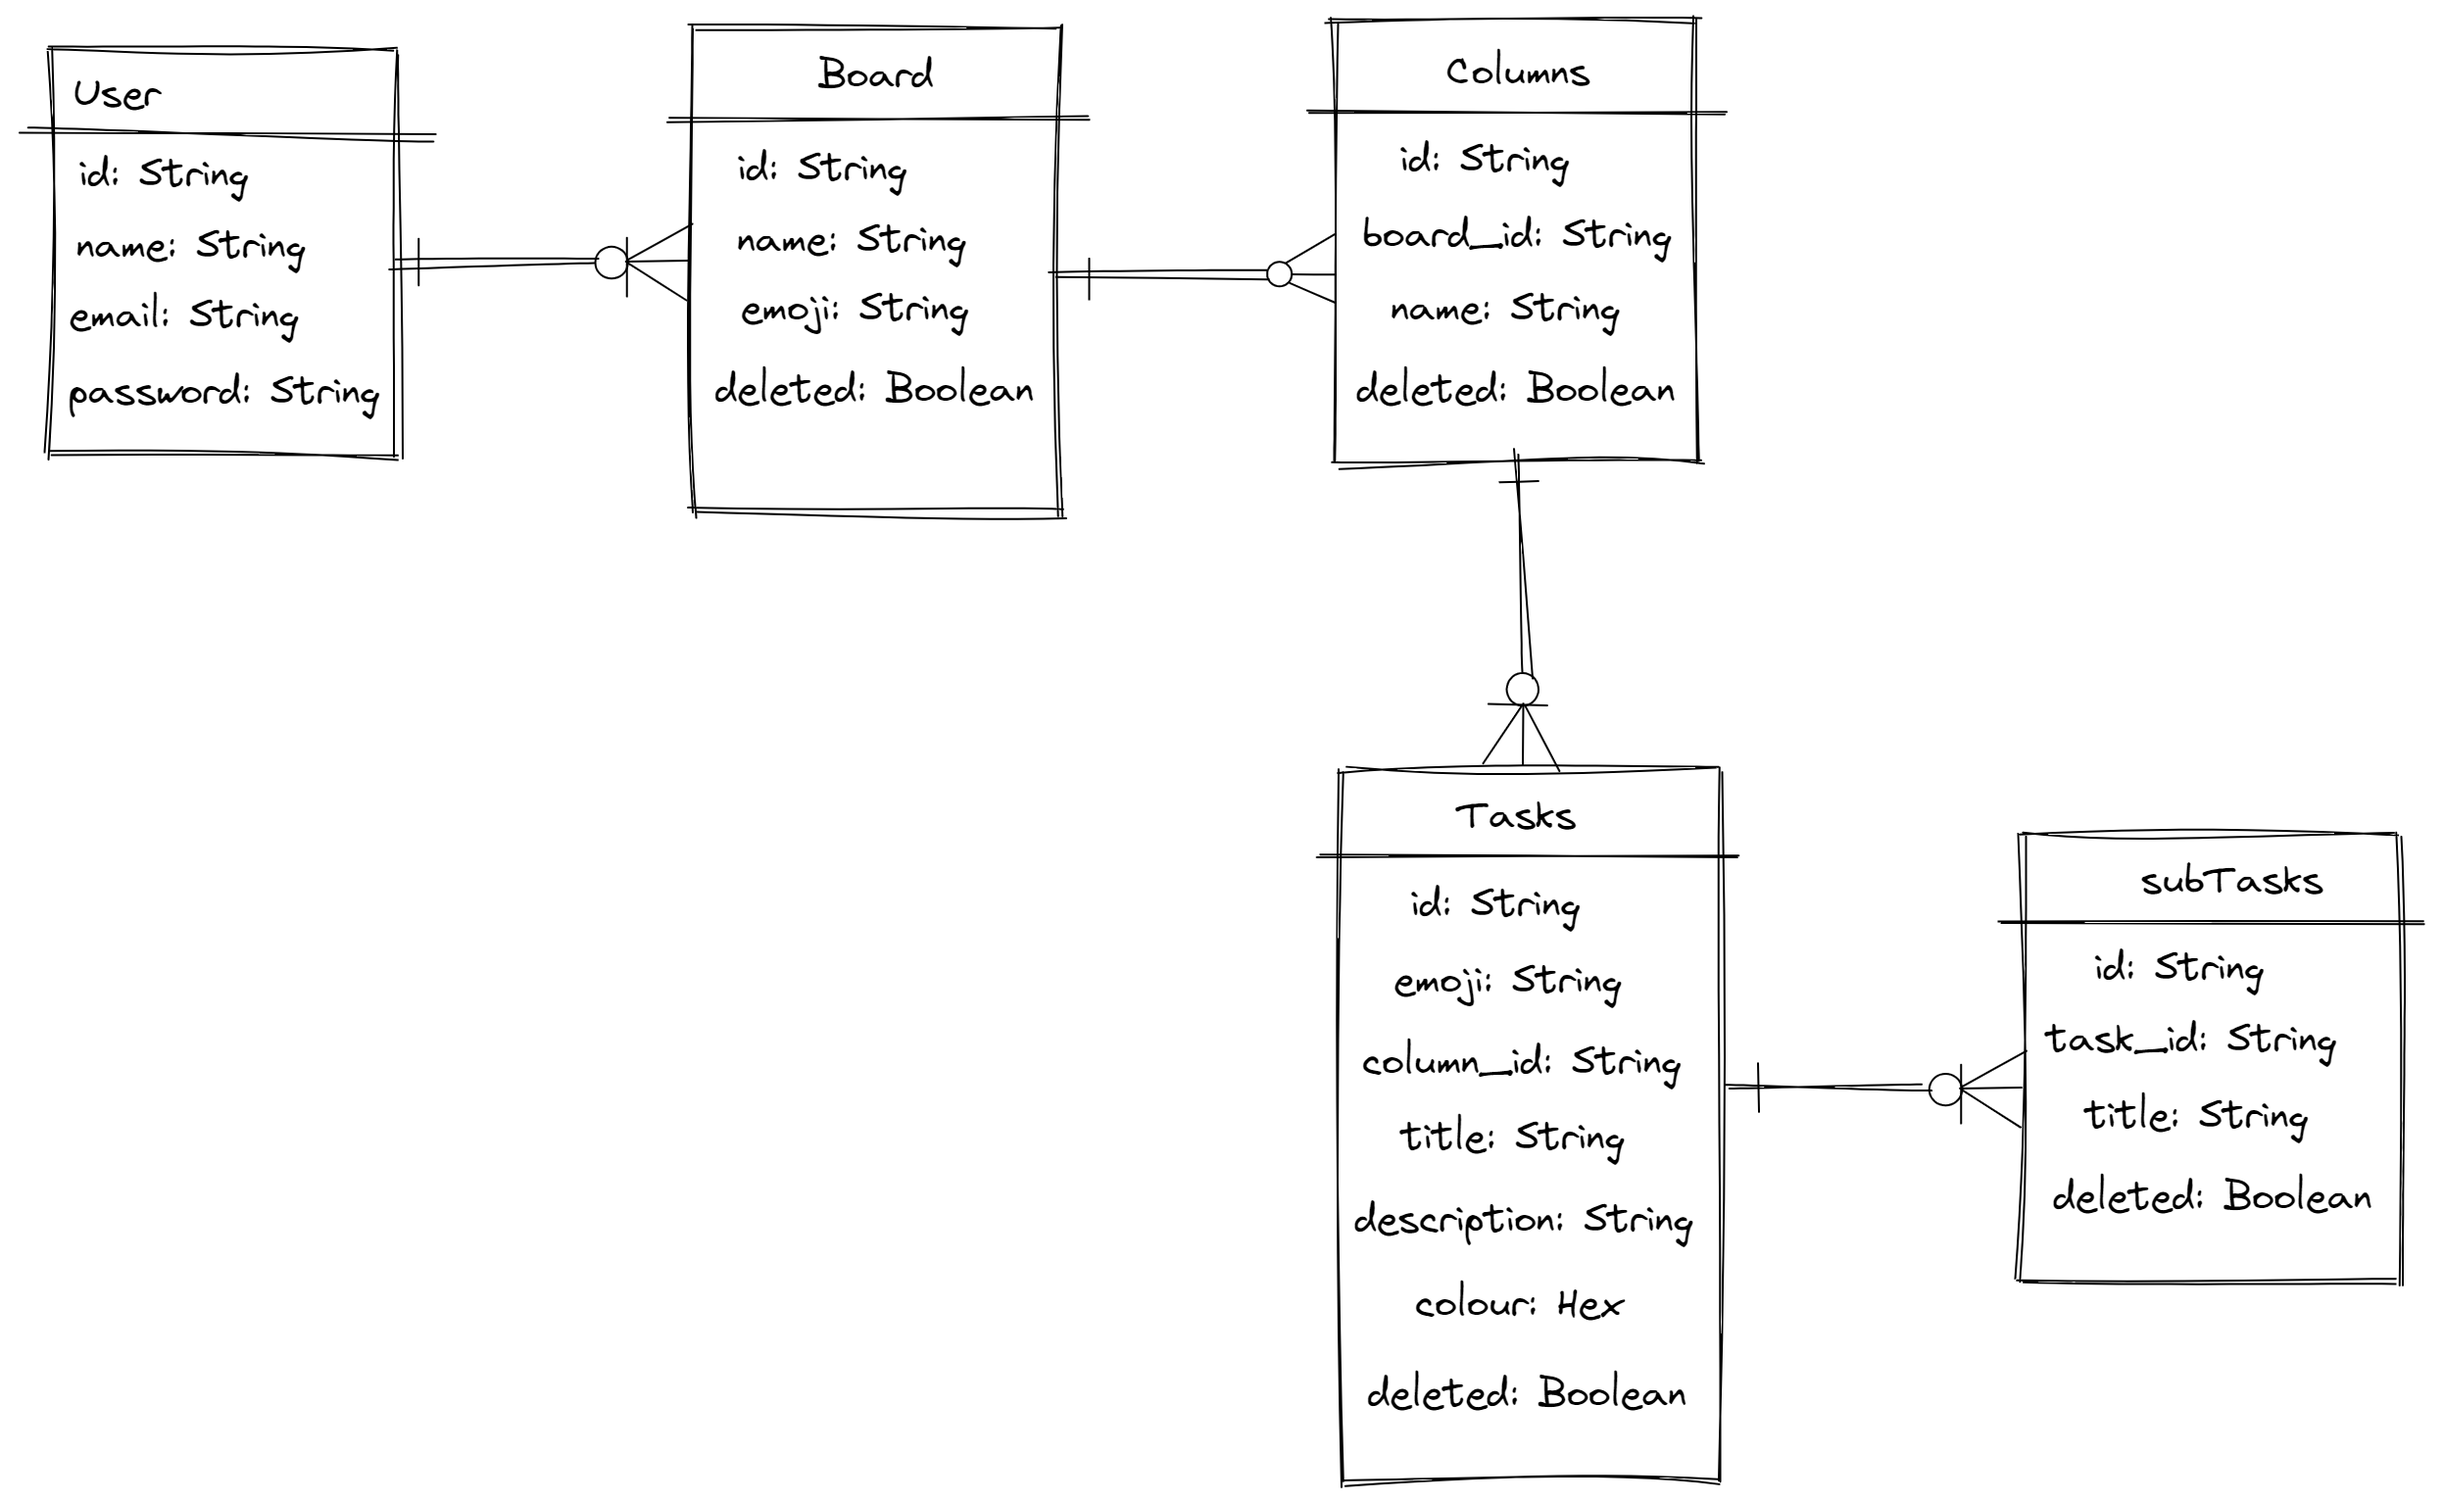
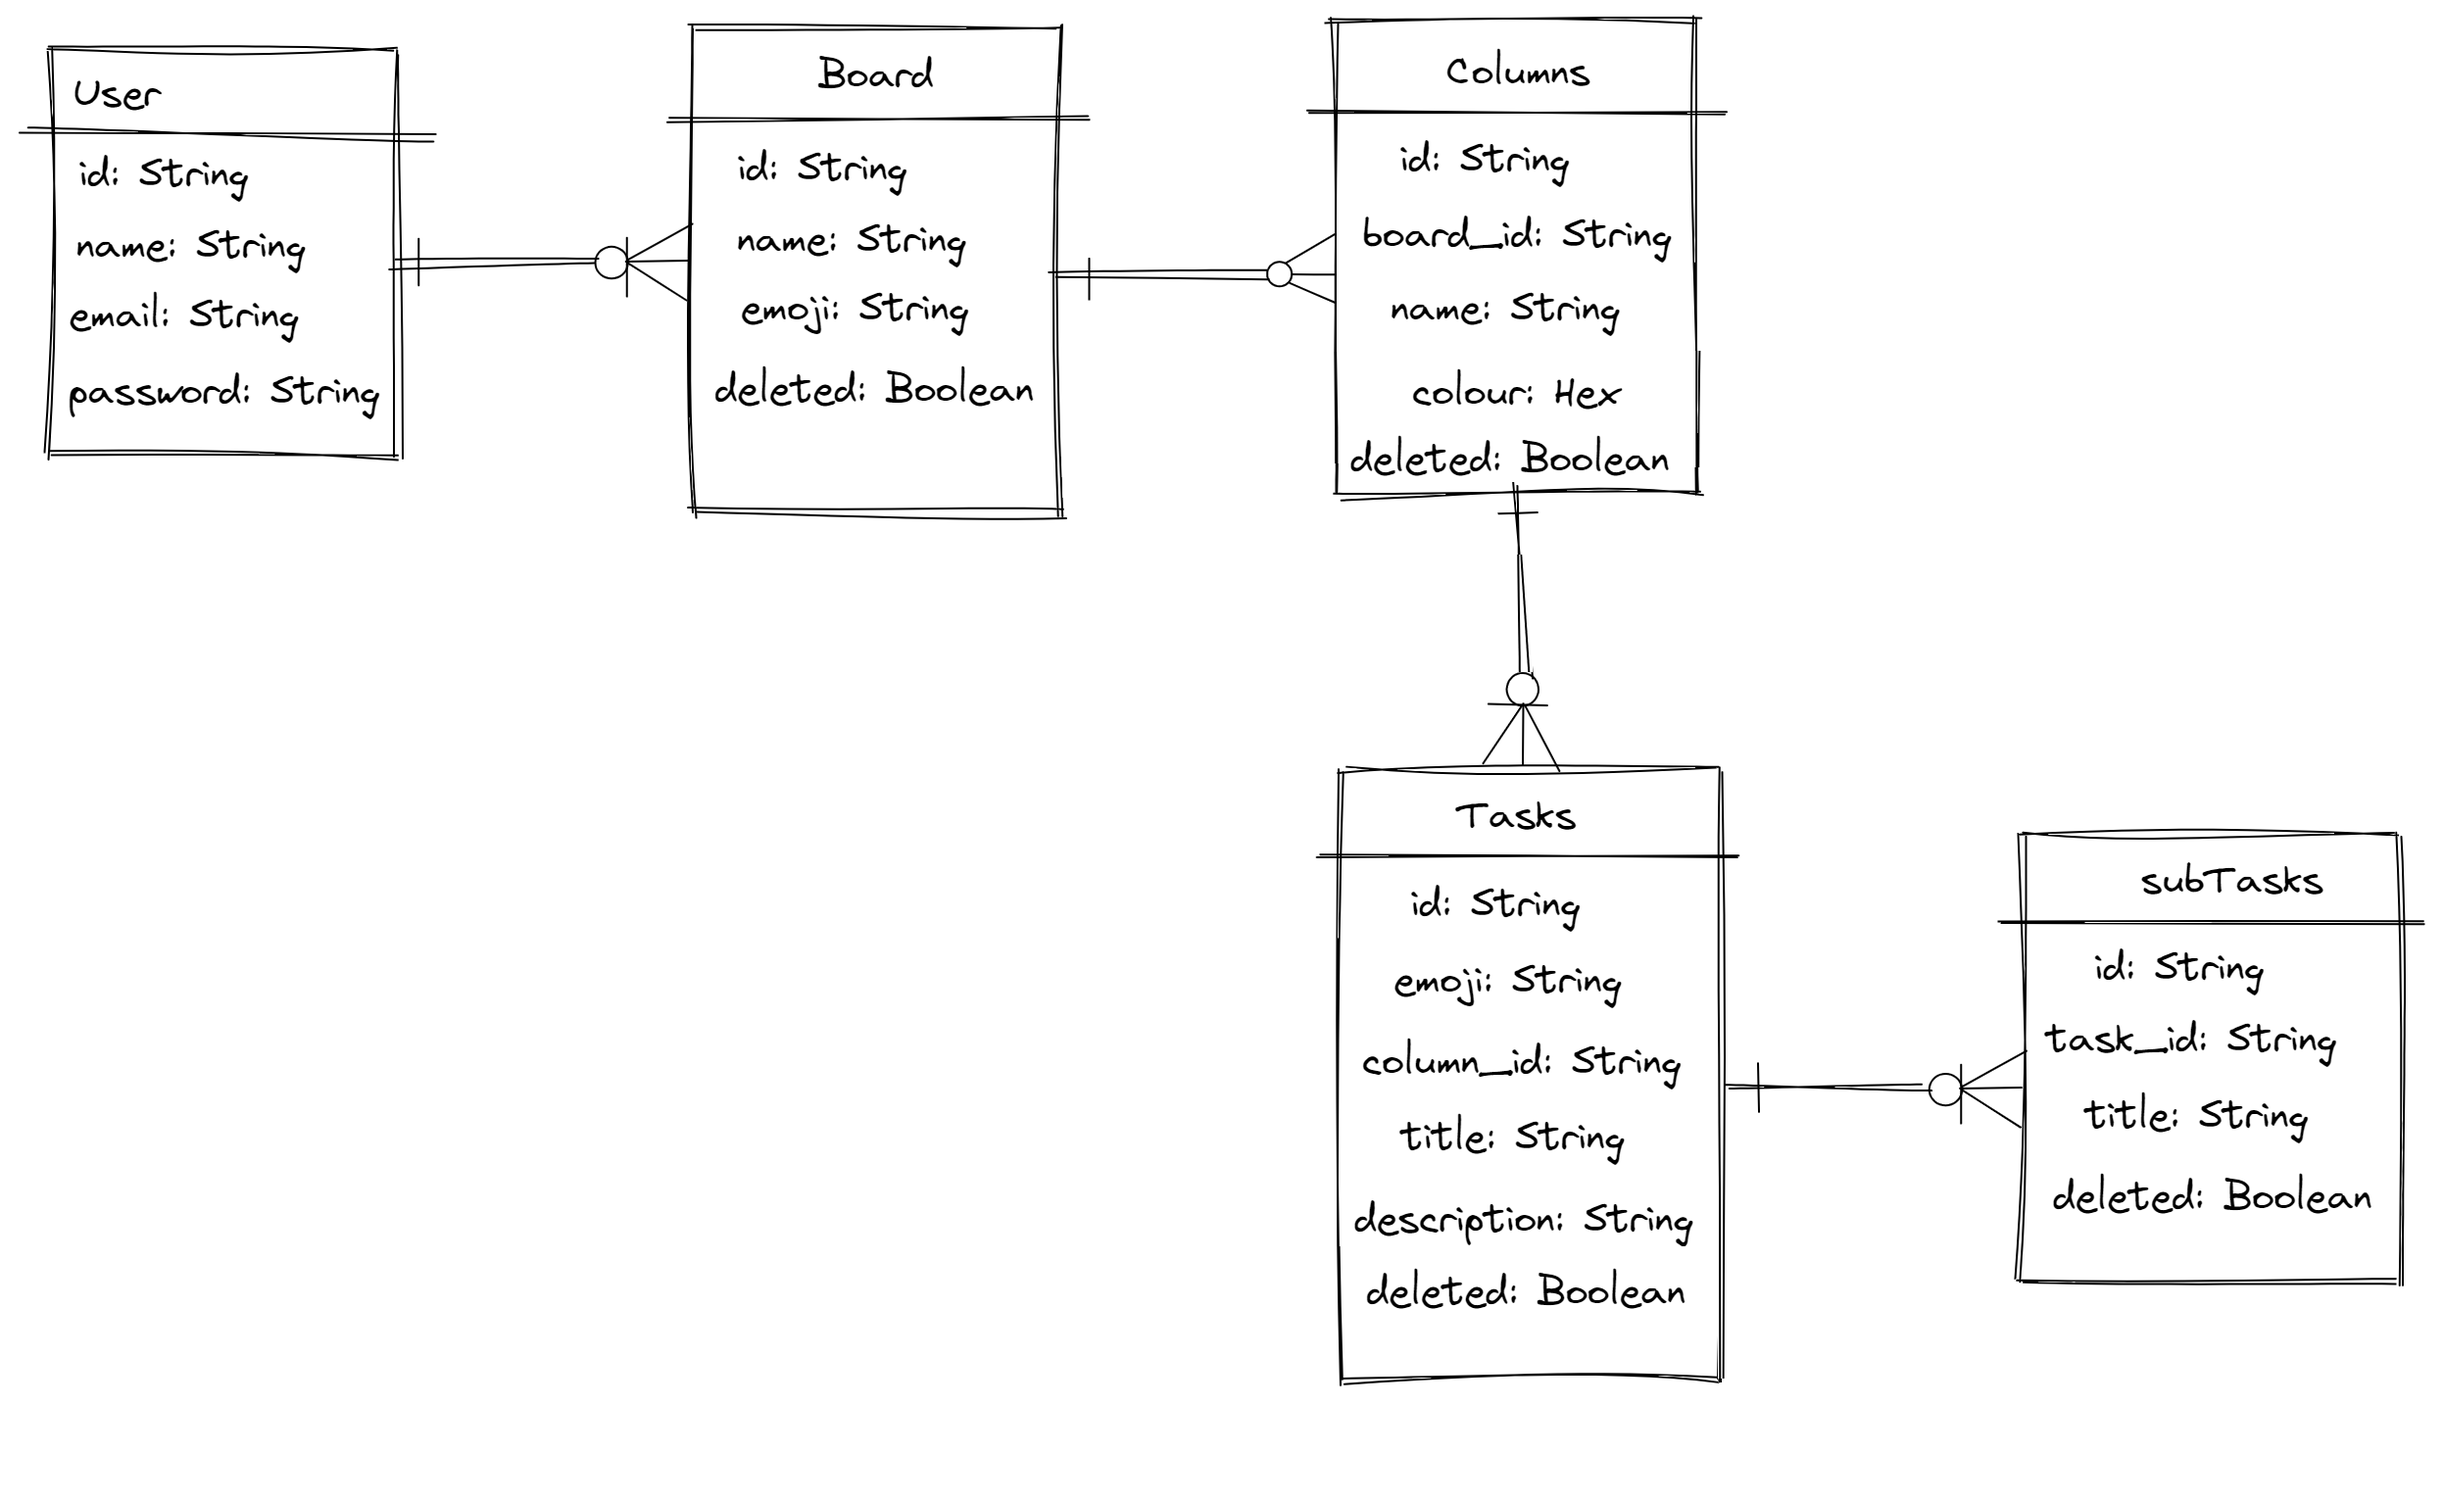
modified database design

Changed region(s): [[0.5251, 0.2453, 0.7104, 0.4292], [0.556, 0.8584, 0.7104, 0.9504], [0.556, 0.9811, 0.7104, 1.0]]

diff --git a/server/model/Column.js b/server/model/Column.js
@@ -9,7 +9,10 @@ const ColumnSchema = new Schema({
     type: String,
     required: true,
   },
-
+  colour: {
+    type: String,
+    length: 6,
+  },
   deleted: {
     type: Boolean,
     default: false,
